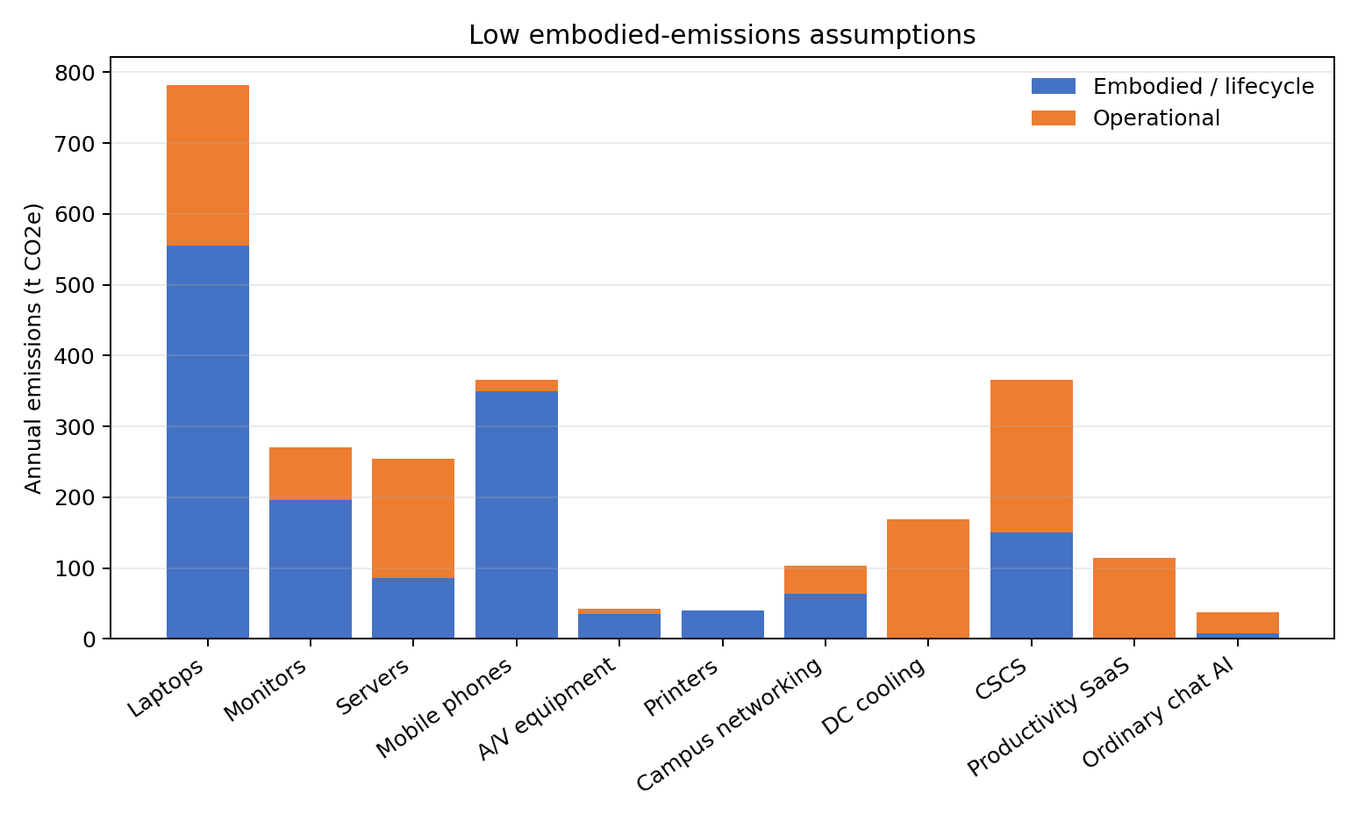
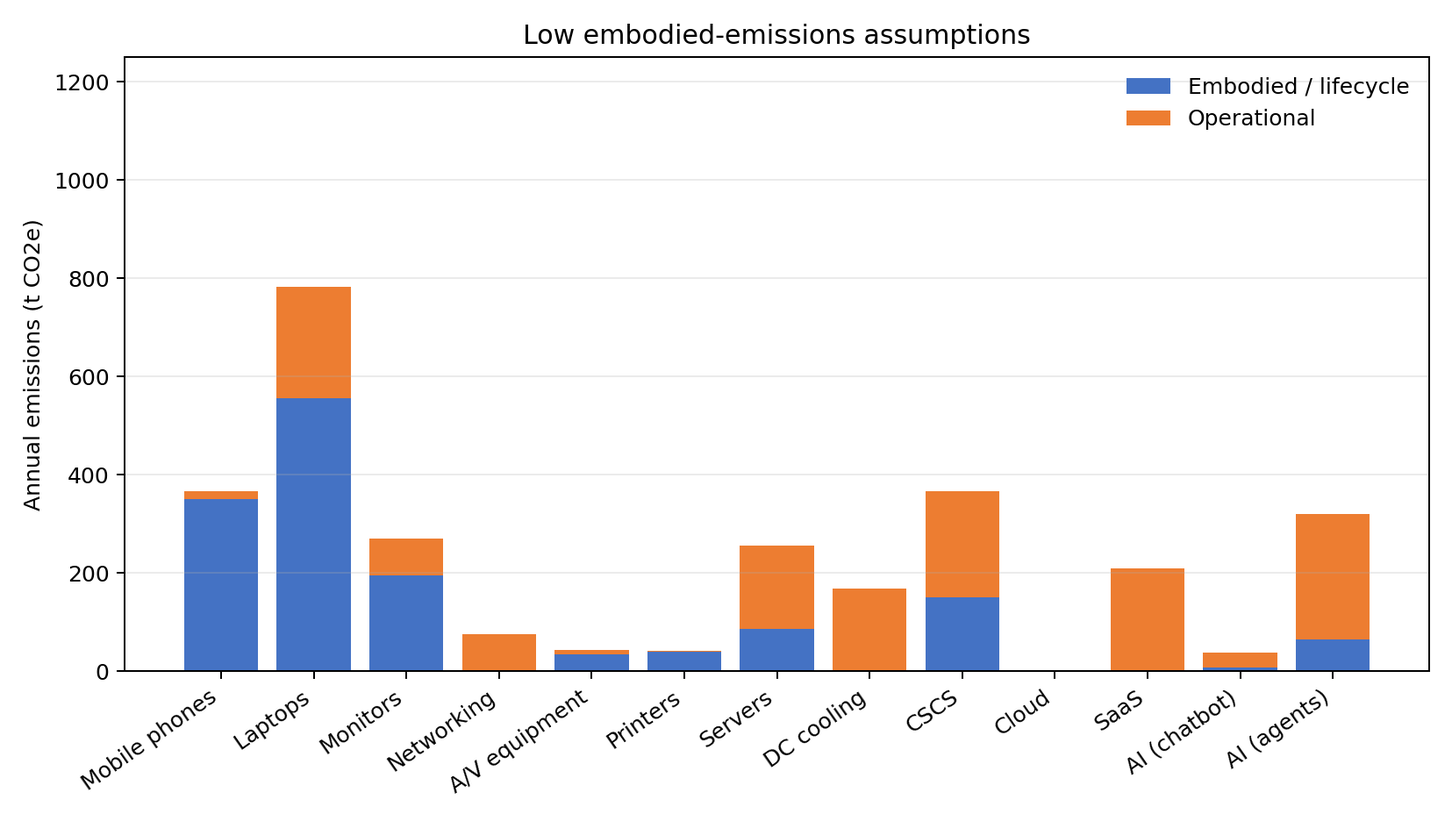
Introduce ranges of values for neworking, cloud, SaaS, and AI parameters

diff --git a/doc/paper.tex b/doc/paper.tex
@@ -95,7 +95,7 @@ For servers, which are mostly located in on-premise data centers, we also attemp
 
 UZH at present does not make significant use of commercial cloud compute, but the model allows simulating the shift of some fraction of the server load to cloud VMs. For this hypothetical cloud footprint, like for on-premise data centers, we attempt to model operational emissions, embodied emissions, and emissions from cooling.
 
-Application-level cloud services such as Microsoft 365 or Google Workspace are ubiquitous but difficult to model bottom-up without tenant-level vendor reports. We include a rough bounded estimate of operational emissions, but do not attempt to estimate embodied emissions.
+Application-level cloud services such as Microsoft 365 or Google Workspace are ubiquitous but difficult to model bottom-up without tenant-level vendor reports. We include a rough range estimate of operational emissions, but do not attempt to estimate embodied emissions.
 
 UZH faculties use shared off-campus supercomputing facilities, primarily the Swiss National Supercomputing Center, CSCS~\cite{cscs}. Both operational impacts and embodied emissions are in scope for our analysis.
 
@@ -105,7 +105,7 @@ We distinguish three classes of generative-AI use: short chatbot queries, long o
 
 \subsubsection*{Summary}
 
-This table summarizes what is in scope in the current model and which components are treated as bounded estimates rather than measured.
+This table summarizes what is in scope in the current model and which components are treated as range estimates rather than measured values.
 
 This table summarizes what is in scope in the current model. The entries indicate whether each category is included in the operational, lifecycle, and cooling/facility-overhead
   accounting; the precision and data sources vary by category and are discussed below.
@@ -146,6 +146,8 @@ We attempt to model a hypothetical shift of some workloads from servers in an on
 For application-level cloud services we include a preliminary estimate of operational emissions informed by vendor carbon-accounting tools~\cite{microsoft:m365:emissions,google:workspace:carbon} and treat those estimates separately from higher-confidence campus device and server results. This estimate excludes embedded generative-AI features such as Copilot or Gemini, which are covered by the separate AI scenarios. As mentioned, we do not attempt to estimate embodied emissions for these cloud services.
 
 For supercomputing facilities, primarily CSCS, we estimate both the operational impact of workloads and a range of likely embodied emissions based on the UZH allocation of total CSCS electricity use and an approximate model of server hardware. Since we lack a detailed hardware inventory for CSCS, we cannot model embodied emissions precisely at the node level.
+
+For networking, productivity SaaS, and supercomputing, the result figures display midpoint values from the ranges described below. These bars should therefore be read as central scenario estimates rather than measured inventory values.
 
 \subsubsection*{Generative and agentic AI}
 
@@ -204,7 +206,7 @@ The Swiss electricity mix is substantially cleaner than the European or North Am
 
 Our assumptions about device duty cycle can be summarized as follows: (1) end-user devices are used during the day on weekdays (250 days per year), (2) servers run around-the-clock but at 80\% of peak power load, (3) mobile phones are modeled through their charging energy rather than as continuously plugged-in devices, and (4) printers are idle except for a few minutes per day. A typical smartphone battery capacity of 15--20 Wh, charged once per day with 80--90\% charger efficiency, corresponds to roughly 20--25 Wh/day. In the model this is represented as a 10 W charging load for three-hour period on 250 days/year. Standby power for all devices is negligible ($\sim 1$ W), except for printers which often draw 50--100 W.
 
-For campus networking, UZH has approximately 4,000 wifi access points. A bottom-up access-point estimate is 4,000 devices $\times$ 15 W $\times$ 8,760 h/year $\approx$ 526 MWh/year, corresponding to roughly 25--35 \tcoe/year under the Swiss electricity mix. Core switches, distribution switches, routers, controllers, and storage networking are less well inventoried; allowing these to add one to two times the access-point load gives an operational range of roughly 50--100 \tcoe/year. This is close to the default 10\% network overhead used in the model, but we now treat that parameter explicitly in the sensitivity analysis rather than as a fixed assumption. % XXX check
+For campus networking, UZH has approximately 4,000 wifi access points. A bottom-up access-point estimate is 4,000 devices $\times$ 15 W $\times$ 8,760 h/year $\approx$ 526 MWh/year, corresponding to roughly 25--35 \tcoe/year under the Swiss electricity mix. Core switches, distribution switches, routers, controllers, and storage networking are less well inventoried; allowing these to add one to two times the access-point load gives an operational range of roughly 50--100 \tcoe/year. In the result figures, the networking bar displays the midpoint of this operational range, 75 \tcoe/year.
 
 \subsubsection*{Embodied emissions}
 
@@ -254,7 +256,7 @@ We found less data for other types of devices. For now, we model them as follows
   \item Computer monitors: 340 \kgcoe~\cite{dellpcf,lovehagen2023,teehan2013}.
   \item Conference room displays: 700 \kgcoe\ (scaling monitor by $(40''/27'')^2$). We use this as a proxy for all audiovisual equipment (lecture room projectors, etc.). Note that the numbers are sufficiently low that errors in this estimate do not significantly affect the overall result.
   \item Printer/copier stations: 1100 \kgcoe~\cite{ecoinvent}.
-  \item Network equipment: We did not find reliable lifecycle assessments for routers and switches, and have little information about UZH network architecture. The vast majority ($80-95\%$) of lifecycle emissions of network gear stem from usage~\cite{cisco2024,jacob2023}. We therefore keep embodied network emissions as a low-order proxy tied to operational network scale and vary the network overhead from 0--20\% in sensitivity analysis.
+  \item Network equipment: We did not find reliable lifecycle assessments for routers and switches, and have little information about UZH network architecture. The vast majority ($80-95\%$) of lifecycle emissions of network gear stem from usage~\cite{cisco2024,jacob2023}. We therefore plot networking as an operational midpoint in the main figures and treat embodied network emissions as an unresolved inventory gap rather than assigning a precise blue-stack value.
 \end{itemize}
 
 \subsection{Cloud and supercomputing facilities}
@@ -265,9 +267,9 @@ Lacking information about UZH's workloads, we model a hypothetical UZH cloud foo
 
 Given all these parameters, we can then compute cloud server operational emissions, embodied emissions, and cooling overhead as we do for on-premise servers.
 
-For application-level cloud services, Microsoft and Google provide tenant-specific carbon reports for Microsoft 365 and Google Workspace, respectively~\cite{microsoft:m365:emissions,google:workspace:carbon}. Since we do not have access to UZH tenant reports, we use a preliminary sensitivity range of 1--10 \kgcoe/user/year for productivity SaaS, with 3 \kgcoe/user/year as the central value. For a population of 38,000 users, this corresponds to 38--380 \tcoe/year, with a central estimate of 114 \tcoe/year. This estimate is intentionally separated from the baseline because vendor-reported tenant data should replace it whenever available.
+For application-level cloud services, Microsoft and Google provide tenant-specific carbon reports for Microsoft 365 and Google Workspace, respectively~\cite{microsoft:m365:emissions,google:workspace:carbon}. Since we do not have access to UZH tenant reports, we use a preliminary sensitivity range of 1--10 \kgcoe/user/year for productivity SaaS. For a population of 38,000 users, this corresponds to 38--380 \tcoe/year. The result figures use the midpoint of this range, 209 \tcoe/year. This estimate is intentionally separated from the higher-confidence campus device and server results because vendor-reported tenant data should replace it whenever available.
 
-For supercomputing at CSCS, recent information~\cite{cscs:supercomputing} indicates total compute electricity use of approximately 60 GWh/year and an estimated UZH allocation of approximately 3.6 GWh/year, or about 6\% of the total. Using the Swiss electricity mix carbon intensity, this corresponds to approximately 180 \tcoe/year of operational emissions. Since the 3.6 GWh/year figure excludes facility overhead, a PUE range of 1.1--1.3 would add 18--54 \tcoe/year. For embodied emissions, since we lack a precise hardware inventory, we use a rough server-equivalent estimate. The UZH electricity allocation corresponds to an average allocated power of $3.6$ GWh / 8,760 h $\approx 411$ kW. Assuming that this load is represented by server nodes drawing 0.4--2.0 kW each, and that, per the analysis above, each node has embodied emissions of 1.1 \tcoe\ and a 5-year lifetime, amortized embodied emissions fall in the range of 45--226 \tcoe/year. We round this to a broad 50--250 \tcoe/year range to reflect uncertainty about node power, accelerator mix, and lifetime. We use these values as a bounded CSCS emissions estimate in the sensitivity analysis.
+For supercomputing at CSCS, recent information~\cite{cscs:supercomputing} indicates total compute electricity use of approximately 60 GWh/year and an estimated UZH allocation of approximately 3.6 GWh/year, or about 6\% of the total. Using the Swiss electricity mix carbon intensity, this corresponds to approximately 180 \tcoe/year of operational emissions. Since the 3.6 GWh/year figure excludes facility overhead, a PUE range of 1.1--1.3 would add 18--54 \tcoe/year; the result figures use the midpoint, 36 \tcoe/year. For embodied emissions, since we lack a precise hardware inventory, we use a rough server-equivalent estimate. The UZH electricity allocation corresponds to an average allocated power of $3.6$ GWh / 8,760 h $\approx 411$ kW. Assuming that this load is represented by server nodes drawing 0.4--2.0 kW each, and that, per the analysis above, each node has embodied emissions of 1.1 \tcoe\ and a 5-year lifetime, amortized embodied emissions fall in the range of 45--226 \tcoe/year. We round this to a broad 50--250 \tcoe/year range to reflect uncertainty about node power, accelerator mix, and lifetime; the result figures use the midpoint, 150 \tcoe/year. Thus the plotted CSCS estimate is 366 \tcoe/year, split into 216 \tcoe/year operational and 150 \tcoe/year embodied emissions.
 
 \subsection{Generative and agentic AI}
 
@@ -300,7 +302,7 @@ For the agentic scenarios, a useful approximation is:
 
 \[\mathrm{annual~emissions~(t~CO_2e)} \approx 2{,}460 \times f \times E\]
 
-where $f$ is the fraction of the 38,000-person UZH population that uses agentic AI heavily on workdays, and $E$ is kWh per active user-day. Thus 5\% adoption at 1.3 kWh/day is approximately 160 \tcoe/year, and 10\% adoption at 2.4 kWh/day is approximately 590 \tcoe/year.
+where $f$ is the fraction of the 38,000-person UZH population that uses agentic AI heavily on workdays, and $E$ is kWh per active user-day. Thus 5\% adoption at 1.3 kWh/day is approximately 160 \tcoe/year, 10\% adoption at 1.3 kWh/day is approximately 320 \tcoe/year, and 10\% adoption at 2.4 kWh/day is approximately 590 \tcoe/year.
 
 \subsection{Model limitations}
 
@@ -327,12 +329,12 @@ We now discuss the main takeaways from our model when it is configured with the 
 
 \subsubsection*{Impact of embodied emissions}
 
-Maybe the most striking result is that, when we consider the entire population of campus devices, and not only those owned and managed by the university, end-user devices remain the largest source of emissions even after adding bounded estimates for productivity SaaS and CSCS. See Figure~\ref{fig:baseline}.
+Maybe the most striking result is that, when we consider the entire population of campus devices, and not only those owned and managed by the university, end-user devices remain the largest source of emissions even after adding midpoint estimates for networking, productivity SaaS, CSCS, and an illustrative agentic-AI scenario. See Figure~\ref{fig:baseline}.
 
 \begin{figure}[h]
   \centering
   \includegraphics[width=0.7\textwidth]{fig-baseline.png}
-  \caption{Baseline results}
+  \caption{Baseline results. Networking, SaaS, and CSCS are plotted at the midpoint of the ranges described in the text; AI agents represent an illustrative scenario with 10\% adoption at 1.3 kWh per active user-day.}
   \label{fig:baseline}
 \end{figure}
 
@@ -340,7 +342,7 @@ Many studies~\cite{wb:itu:ict,umich:factsheet} agree that a large fraction of co
 
 \subsubsection*{Impact of cloud computing}
 
-Hypothetically moving all UZH server workloads from on-premise data centers to a commercial cloud provider eliminates about 170~\tcoe\ of cooling overhead and replaces about 415~\tcoe\ of on-premise server emissions with about 380~\tcoe\ of cloud emissions. In the broad baseline that includes the bounded SaaS and CSCS estimates, total IT emissions fall from approximately 3.66~\ktcoe\ to 3.41~\ktcoe. See Figure~\ref{fig:cloud}.
+Hypothetically moving all UZH server workloads from on-premise data centers to a commercial cloud provider eliminates about 170~\tcoe\ of cooling overhead and replaces about 415~\tcoe\ of on-premise server emissions with about 380~\tcoe\ of cloud emissions. In the broad baseline that includes the midpoint estimates for networking, SaaS, CSCS, and agentic AI, total IT emissions fall from approximately 3.99~\ktcoe\ to 3.78~\ktcoe. See Figure~\ref{fig:cloud}.
 
 \begin{figure}[h]
   \centering
@@ -362,11 +364,11 @@ There is also a financial argument to consider: if migration to the cloud is mor
   \label{fig:llm:growth}
 \end{figure}
 
-AI adoption is growing rapidly, driving demand for data centers and potentially stressing electrical infrastructure in coming years~\cite{lbl:dc:2024,iea:ai:energy,iea:keyquestions:ai}. For ordinary chatbot use, however, emissions remain a relatively small addition to the UZH IT footprint. In our default scenario of 15 queries/user/day at 1 Wh/query, ordinary chat contributes roughly 1--2\% of total IT emissions, depending on whether conservative embodied GPU overhead is included.
+AI adoption is growing rapidly, driving demand for data centers and potentially stressing electrical infrastructure in coming years~\cite{lbl:dc:2024,iea:ai:energy,iea:keyquestions:ai}. For ordinary chatbot use, however, emissions remain a relatively small addition to the UZH IT footprint. In our default scenario of 15 queries/user/day at 1 Wh/query, ordinary chat contributes roughly 1\% of total IT emissions, depending on whether conservative embodied GPU overhead is included.
 
 Moreover, under aggressive ordinary-chat growth projections (50\% YoY usage growth, 50\% YoY training overhead growth, and a moderate 20--30\% YoY improvement in inference efficiency), that overhead remains in the low single digits at the end of 5 years. See Figure~\ref{fig:llm:growth}. This result is consistent with other analyses that put simple LLM use in the context of other computer activity~\cite{epoch2025howmuchenergydoeschatgptuse,ritchie:chatgpt,ritchie:ai:electricity:2026}.
 
-Agentic AI is different. If only 5\% of the UZH population used coding or research agents heavily on workdays at 1.3 kWh/user-day, emissions would be approximately 160 \tcoe/year. If 10\% used such systems at 2.4 kWh/user-day, emissions would be approximately 590 \tcoe/year, comparable to major existing operational IT categories. Figure~\ref{fig:agentic:ai} shows the sensitivity of annual emissions to both adoption and intensity. The conclusion is therefore not that all AI use is negligible, but that emissions depend strongly on whether usage remains dominated by simple chat or shifts toward high-intensity agentic work.
+Agentic AI is different. The main result figures therefore split AI into ``AI (chatbot)'' and ``AI (agents)''. The agent bar represents an illustrative scenario in which 10\% of the UZH population uses coding or research agents heavily on workdays at 1.3 kWh/user-day, yielding approximately 320 \tcoe/year. If 10\% used such systems at 2.4 kWh/user-day, emissions would be approximately 590 \tcoe/year, comparable to major existing operational IT categories. Figure~\ref{fig:agentic:ai} shows the sensitivity of annual emissions to both adoption and intensity. The conclusion is therefore not that all AI use is negligible, but that emissions depend strongly on whether usage remains dominated by simple chat or shifts toward high-intensity agentic work.
 
 \begin{figure}[h]
   \centering
@@ -380,7 +382,7 @@ Agentic AI is different. If only 5\% of the UZH population used coding or resear
 
 The results above are robust for ordinary chat use, but more conditional for high-intensity agentic AI.
 
-For example, if we (1) massively reduce the set of end-user devices in scope to just those owned and managed by the university (about 10,000 laptops and monitors, 2,400 mobile phones), (2) triple the ordinary LLM per-query energy use to 3 Wh, and (3) assume that each of the 38,000 people at UZH uses a GPT-4o-class LLM 40 times per day, then emissions from ordinary chat are still about 12\% of total (Figure~\ref{fig:sens1}).
+For example, if we (1) massively reduce the set of end-user devices in scope to just those owned and managed by the university (about 10,000 laptops and monitors, 2,400 mobile phones), (2) triple the ordinary LLM per-query energy use to 3 Wh, and (3) assume that each of the 38,000 people at UZH uses a GPT-4o-class LLM 40 times per day, then emissions from ordinary chat are about 10\% of total (Figure~\ref{fig:sens1}).
 
 \begin{figure}[h]
   \centering
@@ -398,11 +400,11 @@ Similarly, if we cut our estimate for the embodied emissions of every type of de
   \label{fig:sens2}
 \end{figure}
 
-Only if we combine the ``low embodied emissions'' scenario with the ``pessimal ordinary LLM'' scenario does simple generative AI become a substantial factor, contributing 16\% of total emissions.
+Combining the ``low embodied emissions'' scenario with the ``pessimal ordinary LLM'' scenario makes simple generative AI visible but still not dominant, contributing roughly 9--10\% of total emissions depending on whether the illustrative agentic-AI bar is included in the denominator.
 
 Regional context matters as expected. Moving from the Swiss electricity intensity of roughly 50 \gcoekwh\ to the EU average of 207 \gcoekwh\ increases operational emissions by about a factor of four, while a high-carbon grid of 400 \gcoekwh\ increases them by about a factor of eight. Embodied emissions remain important for end-user devices under long lifetimes, but in high-carbon regions operational server, network, supercomputing, cloud, and AI emissions become much more prominent. Shorter device refresh cycles push in the opposite direction: they increase the embodied-emissions share and make device-lifetime policy more important.
 
-The new boundary estimates do not overturn the main device-lifetime conclusion, but they are large enough to matter. The bottom-up networking estimate implies roughly 50--100 \tcoe/year operational emissions, and varying the network-overhead parameter from 0--20\% changes total IT emissions by low single-digit percentages. The preliminary productivity-SaaS estimate spans 38--380 \tcoe/year, and the updated CSCS scenario spans roughly 250--480 \tcoe/year once operational electricity, possible PUE overhead, and embodied server-equivalent emissions are included. These categories should therefore be included in future UZH inventories even if they are not the dominant source in the current baseline.
+The new boundary estimates do not overturn the main device-lifetime conclusion, but they are large enough to matter. The bottom-up networking estimate implies roughly 50--100 \tcoe/year operational emissions, with 75 \tcoe/year shown in the figures. The preliminary productivity-SaaS estimate spans 38--380 \tcoe/year, with 209 \tcoe/year shown in the figures. The updated CSCS scenario spans roughly 250--480 \tcoe/year once operational electricity, possible PUE overhead, and embodied server-equivalent emissions are included; the plotted midpoint is 366 \tcoe/year. These categories should therefore be included in future UZH inventories even if they are not the dominant source in the current baseline.
 
 \section{Recommendations}
 \label{sec:recommendations}

diff --git a/doc/generate-paper-figures.py b/doc/generate-paper-figures.py
@@ -2,7 +2,7 @@
 """Regenerate the figures used by paper.tex.
 
 This script mirrors the deterministic model in app/emissions-calculator.html and
-adds the bounded SaaS/CSCS scenarios described in the revised manuscript. It
+adds the range-based SaaS/CSCS/AI scenarios described in the revised manuscript. It
 produces the paper figures without relying on browser screenshots.
 """
 
@@ -87,26 +87,38 @@ DUTY_CYCLE_6H_DEFAULT = {
 }
 
 BOUNDARY_DEFAULT = {
-    "Productivity SaaS": {"embodied": 0.0, "usage": 114.0},
+    "Campus networking": {"embodied": 0.0, "usage": 75.0},
+    "Productivity SaaS": {"embodied": 0.0, "usage": 209.0},
     "CSCS": {"embodied": 150.0, "usage": 216.0},
 }
 
+AGENTIC_AI_DEFAULT = {
+    "Adoption share": 0.10,
+    "Energy kWh per active user-day": 1.3,
+}
+
 PLOT_CATEGORY_ORDER = [
+    "Mobile phones",
     "Laptops",
     "Monitors",
-    "Desktops",
-    "Servers",
-    "Mobile phones",
+    "Campus networking",
     "A/V equipment",
     "Printers",
-    "Campus networking",
+    "Servers",
     "DC cooling",
-    "Cloud",
-    "Legacy supercomputing",
     "CSCS",
+    "Cloud",
     "Productivity SaaS",
-    "Ordinary chat AI",
+    "AI (chatbot)",
+    "AI (agents)",
 ]
+
+PLOT_LABELS = {
+    "Campus networking": "Networking",
+    "Productivity SaaS": "SaaS",
+}
+
+STACKED_Y_MAX = 1250
 
 
 @dataclass
@@ -209,6 +221,19 @@ def llm_emissions_kg(state: ModelState) -> tuple[float, float]:
     return usage, overhead + embodied
 
 
+def agentic_ai_emissions_t(state: ModelState) -> tuple[float, float]:
+    usage = (
+        state.llms["User population"]
+        * AGENTIC_AI_DEFAULT["Adoption share"]
+        * state.llms["Days per year"]
+        * AGENTIC_AI_DEFAULT["Energy kWh per active user-day"]
+        * state.llms["Emissions intensity g CO2e / kWh"]
+        / 1_000_000
+    )
+    overhead = usage * state.llms["Training overhead %"] / 100
+    return usage, overhead
+
+
 def run_model(state: ModelState, include_boundary: bool = True) -> list[dict[str, float | str]]:
     rows = []
     total_usage = 0.0
@@ -220,21 +245,33 @@ def run_model(state: ModelState, include_boundary: bool = True) -> list[dict[str
         total_usage += usage
         total_embodied += embodied
 
-    networking_usage = 0.0
-    networking_embodied = 0.0
-    for device in ["Laptops", "Desktops", "Servers"]:
-        usage, embodied = device_emissions_kg(state, device)
-        networking_usage += usage * state.compute["Campus networking overhead %"] / 100
-        networking_embodied += embodied * state.compute["Campus networking overhead %"] / 100
-    rows.append(
-        {
-            "category": "Campus networking",
-            "usage": networking_usage / 1000,
-            "embodied": networking_embodied / 1000,
-        }
-    )
-    total_usage += networking_usage
-    total_embodied += networking_embodied
+    if include_boundary and "Campus networking" in state.boundary:
+        networking_values = state.boundary["Campus networking"]
+        rows.append(
+            {
+                "category": "Campus networking",
+                "usage": networking_values["usage"],
+                "embodied": networking_values["embodied"],
+            }
+        )
+        total_usage += networking_values["usage"] * 1000
+        total_embodied += networking_values["embodied"] * 1000
+    else:
+        networking_usage = 0.0
+        networking_embodied = 0.0
+        for device in ["Laptops", "Desktops", "Servers"]:
+            usage, embodied = device_emissions_kg(state, device)
+            networking_usage += usage * state.compute["Campus networking overhead %"] / 100
+            networking_embodied += embodied * state.compute["Campus networking overhead %"] / 100
+        rows.append(
+            {
+                "category": "Campus networking",
+                "usage": networking_usage / 1000,
+                "embodied": networking_embodied / 1000,
+            }
+        )
+        total_usage += networking_usage
+        total_embodied += networking_embodied
 
     cooling = data_center_cooling_kg(state)
     rows.append({"category": "DC cooling", "usage": cooling / 1000, "embodied": 0.0})
@@ -251,12 +288,19 @@ def run_model(state: ModelState, include_boundary: bool = True) -> list[dict[str
         total_usage += supercomputing
 
     llm_usage, llm_embodied = llm_emissions_kg(state)
-    rows.append({"category": "Ordinary chat AI", "usage": llm_usage / 1000, "embodied": llm_embodied / 1000})
+    rows.append({"category": "AI (chatbot)", "usage": llm_usage / 1000, "embodied": llm_embodied / 1000})
     total_usage += llm_usage
     total_embodied += llm_embodied
 
+    agentic_usage, agentic_embodied = agentic_ai_emissions_t(state)
+    rows.append({"category": "AI (agents)", "usage": agentic_usage, "embodied": agentic_embodied})
+    total_usage += agentic_usage * 1000
+    total_embodied += agentic_embodied * 1000
+
     if include_boundary:
         for category, values in state.boundary.items():
+            if category == "Campus networking":
+                continue
             rows.append({"category": category, "usage": values["usage"], "embodied": values["embodied"]})
             total_usage += values["usage"] * 1000
             total_embodied += values["embodied"] * 1000
@@ -303,29 +347,29 @@ def llm_projection(state: ModelState) -> list[dict[str, float]]:
     return rows
 
 
-def nonzero_rows(rows: list[dict[str, float | str]]) -> list[dict[str, float | str]]:
-    return [
-        row
-        for row in rows
-        if row["category"] != "Totals" and (float(row["usage"]) + float(row["embodied"])) > 0.05
-    ]
-
-
 def plot_stacked_emissions(rows: list[dict[str, float | str]], title: str, output: Path) -> None:
-    data = nonzero_rows(rows)
-    order_index = {category: i for i, category in enumerate(PLOT_CATEGORY_ORDER)}
-    data = sorted(data, key=lambda row: order_index.get(str(row["category"]), len(order_index)))
-    labels = [str(row["category"]) for row in data]
+    rows_by_category = {
+        str(row["category"]): row
+        for row in rows
+        if row["category"] != "Totals"
+    }
+    data = []
+    for category in PLOT_CATEGORY_ORDER:
+        row = rows_by_category.get(category, {"category": category, "usage": 0.0, "embodied": 0.0})
+        data.append(row)
+
+    labels = [PLOT_LABELS.get(str(row["category"]), str(row["category"])) for row in data]
     embodied = np.array([float(row["embodied"]) for row in data])
     usage = np.array([float(row["usage"]) for row in data])
 
-    fig_width = max(8.6, 0.46 * len(labels))
+    fig_width = max(9.2, 0.50 * len(labels))
     fig, ax = plt.subplots(figsize=(fig_width, 5.2), dpi=180)
     x = np.arange(len(labels))
     ax.bar(x, embodied, label="Embodied / lifecycle", color="#4472c4")
     ax.bar(x, usage, bottom=embodied, label="Operational", color="#ed7d31")
     ax.set_title(title)
     ax.set_ylabel("Annual emissions (t CO2e)")
+    ax.set_ylim(0, STACKED_Y_MAX)
     ax.set_xticks(x)
     ax.set_xticklabels(labels, rotation=35, ha="right")
     ax.grid(axis="y", alpha=0.25)
@@ -381,8 +425,9 @@ def plot_agentic_heatmap(output: Path) -> None:
         alpha=0.65,
     )
     ax.clabel(contours, inline=True, fmt="%d t", fontsize=8)
-    ax.scatter([5, 10], [1.3, 2.4], color="black", s=24, zorder=3)
+    ax.scatter([5, 10, 10], [1.3, 1.3, 2.4], color="black", s=24, zorder=3)
     ax.text(5.4, 1.30, "5%, 1.3 kWh", fontsize=8, va="center")
+    ax.text(10.4, 1.30, "10%, 1.3 kWh", fontsize=8, va="center")
     ax.text(10.4, 2.33, "10%, 2.4 kWh", fontsize=8, va="center")
     ax.set_xlabel("Share of UZH population using agents heavily on workdays (%)")
     ax.set_ylabel("Agentic AI energy per active user-day (kWh)")
@@ -390,7 +435,7 @@ def plot_agentic_heatmap(output: Path) -> None:
     colorbar = fig.colorbar(mesh, ax=ax)
     colorbar.set_label("t CO2e per year")
     ax.set_xlim(1, 20)
-    ax.set_ylim(0.1, 2.4)
+    ax.set_ylim(0.1, 2.45)
     ax.grid(color="white", linewidth=0.4, alpha=0.55)
     fig.tight_layout()
     fig.savefig(output)
@@ -450,8 +495,13 @@ def print_summary() -> None:
                 values["Mean"] = values["Min"]
         rows = run_model(state)
         total = rows[-1]["usage"] + rows[-1]["embodied"]
-        ordinary_ai = next(row for row in rows if row["category"] == "Ordinary chat AI")
-        print(f"{name}: total={total:.0f} t CO2e, ordinary_chat={ordinary_ai['usage'] + ordinary_ai['embodied']:.0f} t")
+        ordinary_ai = next(row for row in rows if row["category"] == "AI (chatbot)")
+        agentic_ai = next(row for row in rows if row["category"] == "AI (agents)")
+        print(
+            f"{name}: total={total:.0f} t CO2e, "
+            f"chatbot_ai={ordinary_ai['usage'] + ordinary_ai['embodied']:.0f} t, "
+            f"agentic_ai={agentic_ai['usage'] + agentic_ai['embodied']:.0f} t"
+        )
 
 
 def main() -> None:

diff --git a/doc/supplement-parameters.tex b/doc/supplement-parameters.tex
@@ -83,7 +83,8 @@ Printers & 0.0 & 0.0 & 0.01 & 0.0 & Short active-use window plus standby \\ \hli
 \hline
 \textbf{Parameter} & \textbf{Default} & \textbf{Unit} & \textbf{Source / basis} & \textbf{Sensitivity range} \\ \hline
 \endhead
-Campus networking overhead & 10 & \% & Bottom-up AP estimate plus switching/router allowance & 0--20\% \\ \hline
+Campus networking midpoint & 75 & \tcoe/year & Bottom-up AP estimate plus switching/router allowance & 50--100 \tcoe/year operational \\ \hline
+Campus networking overhead & 10 & \% & Legacy calculator proxy for campuses without a network inventory & 0--20\% \\ \hline
 Campus data center PUE & 200 & x100 & UZH historical power estimate & 150--250 x100 \\ \hline
 Cloud PUE & 115 & x100 & Microsoft/Google regional PUE disclosures & 109--156 x100 \\ \hline
 Cloud servers in cloud & 0 & \% & Scenario parameter & 0--100\% \\ \hline
@@ -125,11 +126,13 @@ Agentic AI intensity & 0.1--2.4 & kWh/active user-day & IEA/Ritchie and Claude C
 \hline
 \textbf{Category} & \textbf{Central value} & \textbf{Range} & \textbf{Basis} & \textbf{Notes} \\ \hline
 \endhead
-Productivity SaaS & 114 \tcoe/year & 38--380 \tcoe/year & 38,000 users times 3 kg \coe/user/year, varied 1--10 & Replace with Microsoft 365 or Google Workspace tenant report when available \\ \hline
+Campus networking & 75 \tcoe/year & 50--100 \tcoe/year & Midpoint of bottom-up operational range & Embodied network emissions remain an inventory gap \\ \hline
+Productivity SaaS & 209 \tcoe/year & 38--380 \tcoe/year & 38,000 users times midpoint of 1--10 kg \coe/user/year & Replace with Microsoft 365 or Google Workspace tenant report when available \\ \hline
 CSCS operational electricity & 180 \tcoe/year & Depends on grid factor & 3.6 GWh/year UZH allocation at $\sim$50 g \coe/kWh & Based on CSCS contact data \\ \hline
-CSCS facility overhead & 18--54 \tcoe/year & PUE 1.1--1.3 if allocation excludes overhead & Conservative PUE sensitivity & Avoid if allocation already includes facility electricity \\ \hline
-CSCS embodied emissions & 50--250 \tcoe/year & Broad server-equivalent range & Allocated-power estimate with uncertain node mix & Replace with node/accelerator inventory when available \\ \hline
+CSCS facility overhead & 36 \tcoe/year & 18--54 \tcoe/year & Midpoint of PUE 1.1--1.3 if allocation excludes overhead & Avoid if allocation already includes facility electricity \\ \hline
+CSCS embodied emissions & 150 \tcoe/year & 50--250 \tcoe/year & Midpoint of broad server-equivalent range & Replace with node/accelerator inventory when available \\ \hline
 Agentic AI example A & 160 \tcoe/year & 5\% users, 1.3 kWh/day & Claude Code heavy-use case study & Includes 25\% training overhead \\ \hline
+Agentic AI main-chart scenario & 320 \tcoe/year & 10\% users, 1.3 kWh/day & Illustrative agentic-AI adoption scenario & Includes 25\% training overhead \\ \hline
 Agentic AI example B & 590 \tcoe/year & 10\% users, 2.4 kWh/day & IEA/Ritchie heavy-agent example & Includes 25\% training overhead \\ \hline
 \end{longtable}
 }
